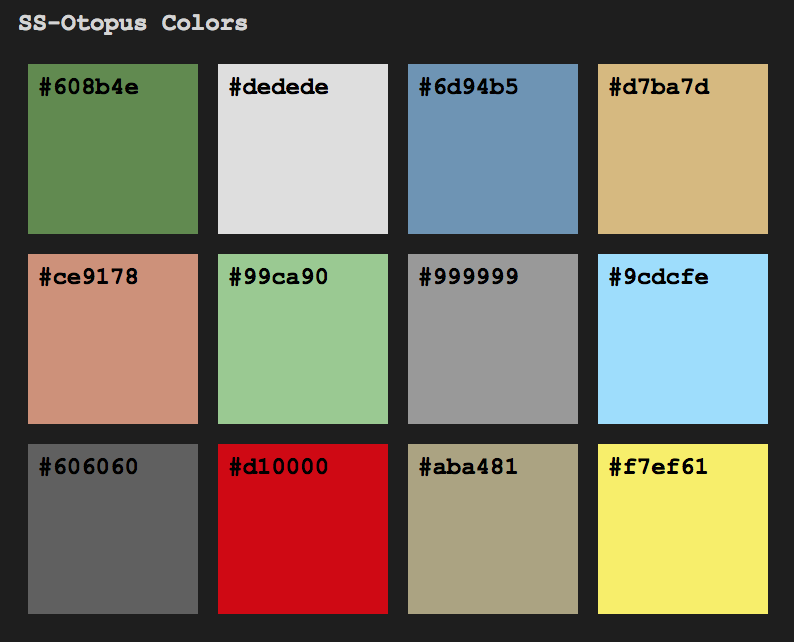
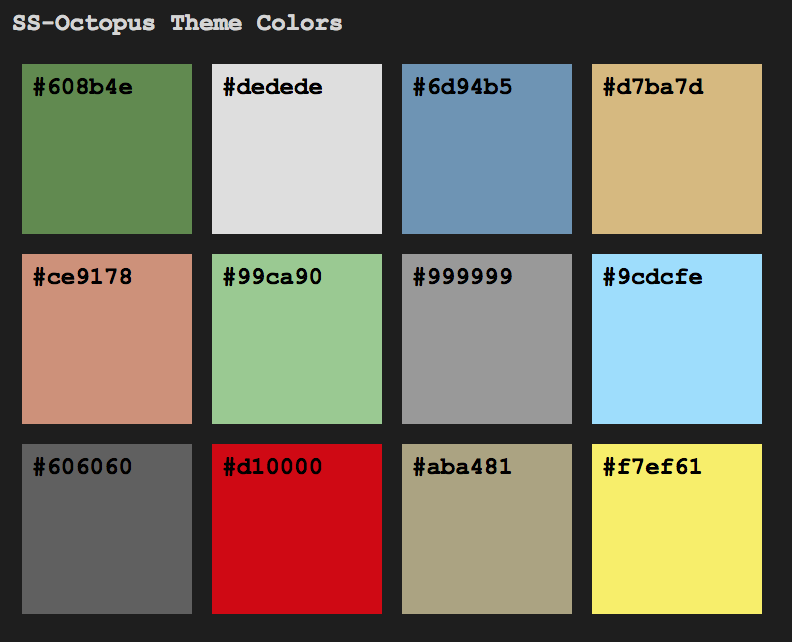
spelling is hard

diff --git a/example/index.html b/example/index.html
@@ -16,7 +16,7 @@
     </head>
     <body>
         <!-- this is an html comment -->
-        <h1>SS-Otopus Theme Colors</h1>
+        <h1>SS-Octopus Theme Colors</h1>
 
         <div class="container">
             <ul class="hlist">

diff --git a/CHANGELOG.md b/CHANGELOG.md
@@ -5,6 +5,9 @@ All notable changes to the "ss-octopus" extension will be documented in this fil
 Check [Keep a Changelog](http://keepachangelog.com/) for recommendations on how to structure this file.
 
 
+## [1.2.1] - 2018-07-29
+
+- Updates spelling in README and updates color palette (Spelling is hard)
 
 ## [1.2.0] - 2018-07-29
 

diff --git a/README.md b/README.md
@@ -1,4 +1,4 @@
-# SS-Octpus Theme
+# SS-Octopus Theme
 
 A Dark theme for [Visual Studio Code](http://code.visualstudio.com/).
 
